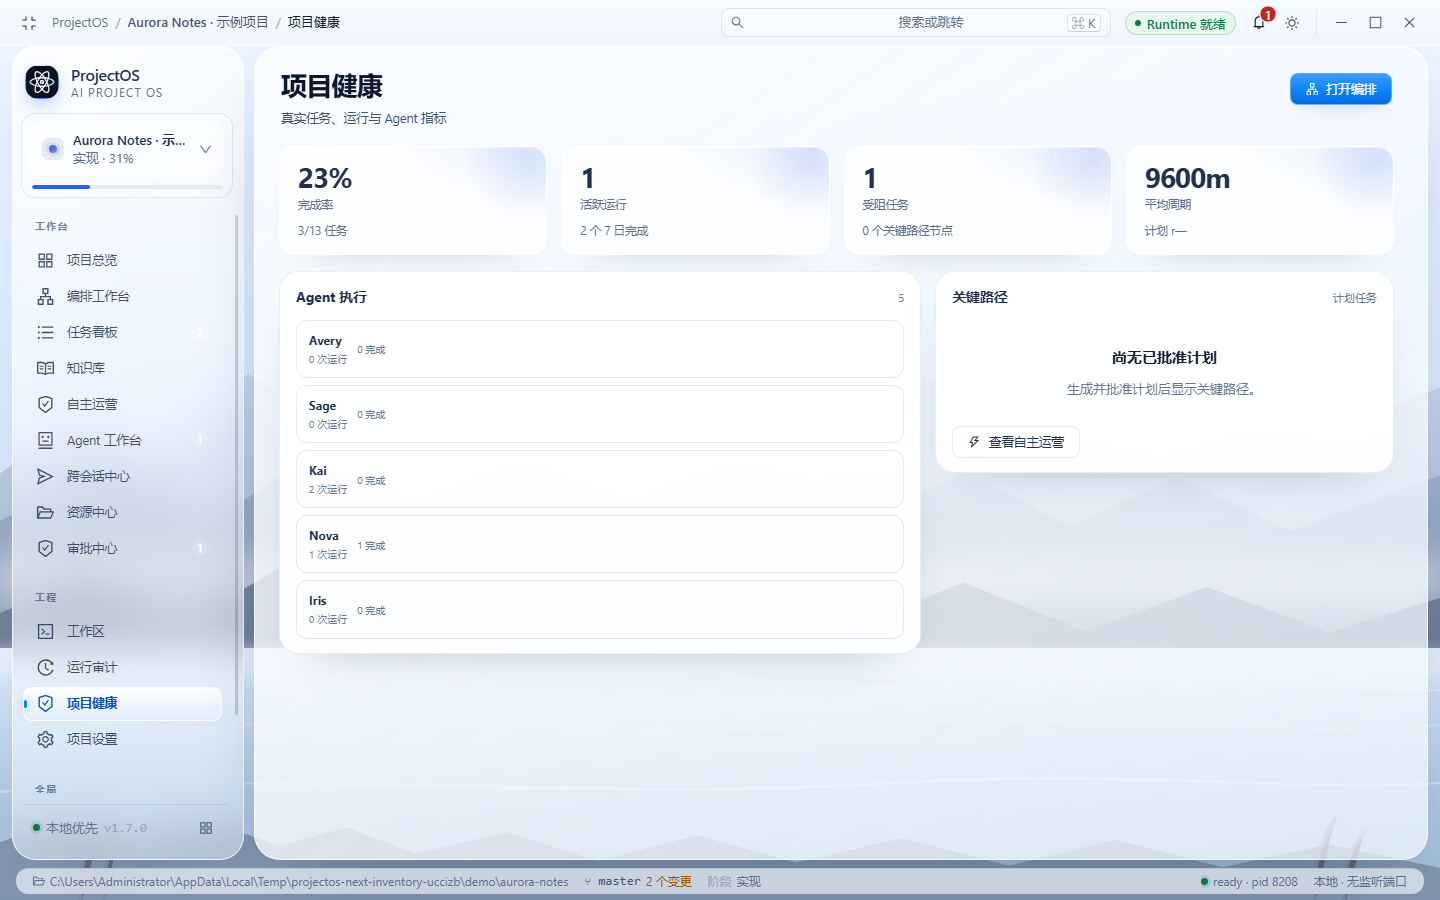
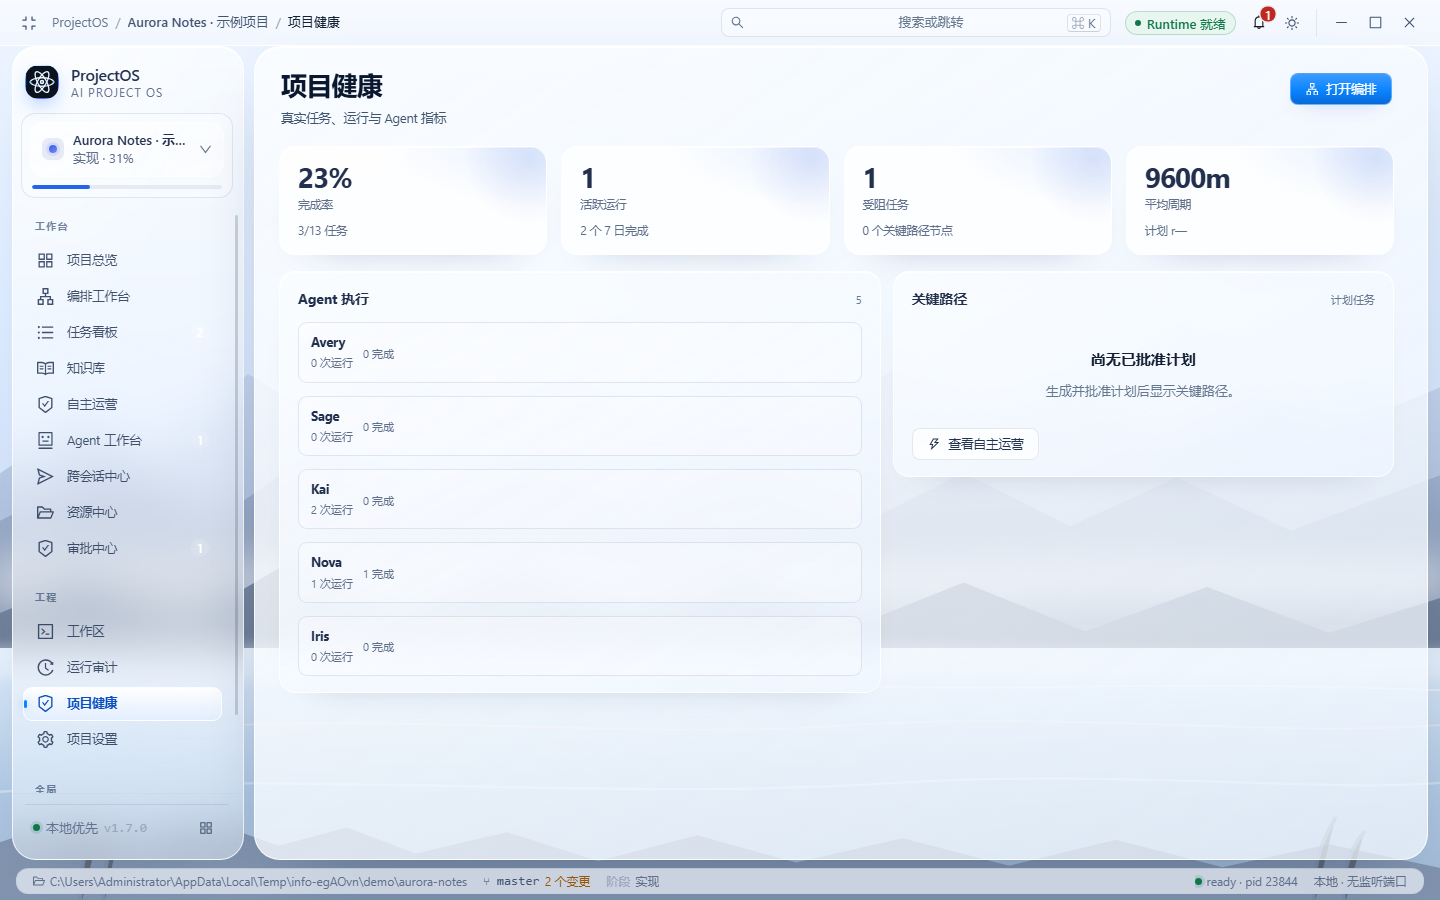
feat(next-ui): refine health and notification surfaces

diff --git a/apps/desktop/src/renderer/src/styles/next-ui-app.css b/apps/desktop/src/renderer/src/styles/next-ui-app.css
@@ -843,3 +843,42 @@
   .po-orchestration-page.is-inspector-open .po-orch-main { grid-template-columns: minmax(0, 1fr); }
   .po-orch-main .po-orch-drawer-layer.is-nonmodal .po-orch-drawer-panel { height: 520px; }
 }
+
+/* Information-page cards: health and notifications get a compact, readable row
+   rhythm instead of a plain white list. */
+.v16-health-page .v16-glass-card,
+.v16-notifications-page .v16-glass-card {
+  padding: 16px 18px;
+  border: 1px solid rgba(255, 255, 255, .76);
+  border-radius: 16px;
+  background: linear-gradient(150deg, rgba(251, 253, 255, .8), rgba(242, 248, 255, .56));
+  box-shadow: inset 0 1px 0 rgba(255, 255, 255, .86), 0 16px 36px -34px rgba(18, 38, 73, .4);
+}
+:root[data-theme='dark'] .v16-health-page .v16-glass-card,
+:root[data-theme='dark'] .v16-notifications-page .v16-glass-card {
+  border-color: var(--nx-line);
+  background: linear-gradient(150deg, rgba(25, 38, 64, .82), rgba(12, 21, 38, .7));
+}
+.v16-health-page .v16-settings-grid,
+.v16-notifications-page .v16-settings-grid {
+  grid-template-columns: minmax(0, 1.2fr) minmax(0, 1fr);
+  gap: 12px;
+}
+.v16-health-page .v16-team-row,
+.v16-notifications-page .v16-team-row {
+  margin-bottom: 6px;
+  padding: 10px 12px;
+  border: 1px solid var(--nx-line);
+  border-radius: 9px;
+  background: color-mix(in srgb, var(--nx-solid) 34%, transparent);
+}
+.v16-health-page .v16-team-row:last-child,
+.v16-notifications-page .v16-team-row:last-child { margin-bottom: 0; }
+.v16-health-page .v16-team-row strong,
+.v16-notifications-page .v16-team-row strong { color: var(--nx-ink); font-size: 12.5px; }
+.v16-health-page .v16-team-row span,
+.v16-notifications-page .v16-team-row span { color: var(--nx-muted); font-size: 11px; }
+@media (max-width: 900px) {
+  .v16-health-page .v16-settings-grid,
+  .v16-notifications-page .v16-settings-grid { grid-template-columns: 1fr; }
+}

diff --git a/docs/next-ui/MIGRATION_PROGRESS.md b/docs/next-ui/MIGRATION_PROGRESS.md
@@ -3,7 +3,7 @@
 Last updated: 2026-10-22  
 Branch: `feature/projectos-next-ui-full-migration`  
 Base: `fa75923` (accepted Design Lab + overlay system)  
-Latest checkpoint: `d8a1558` after orchestration column, Agent three-column and 8-page regression
+Latest checkpoint: pending after health/notifications information surfaces
 
 This file is the recovery entry point. If a session is compacted or a new Agent
 starts, read this file, `BASELINE_AND_RECOVERY.md`, `OPEN_ISSUES.md`,
@@ -399,3 +399,13 @@ Head: `8023df5`.
   520px section below the canvas, not an overlay.
 - Canvas toolbar wraps instead of collapsing labels.
 - Evidence: `docs/next-ui/screens/orchestration-inspector.png`.
+
+
+## Slice 20 — Health and Notifications
+
+- Health agent rows are compact bordered rows; metric/card grid uses the optical
+  surface tokens.
+- Notifications uses the same card material and row rhythm.
+- No data/mutation changes.
+- Screenshots refreshed in `docs/next-ui/screens/pages/health.png` and
+  `notifications.png`.
